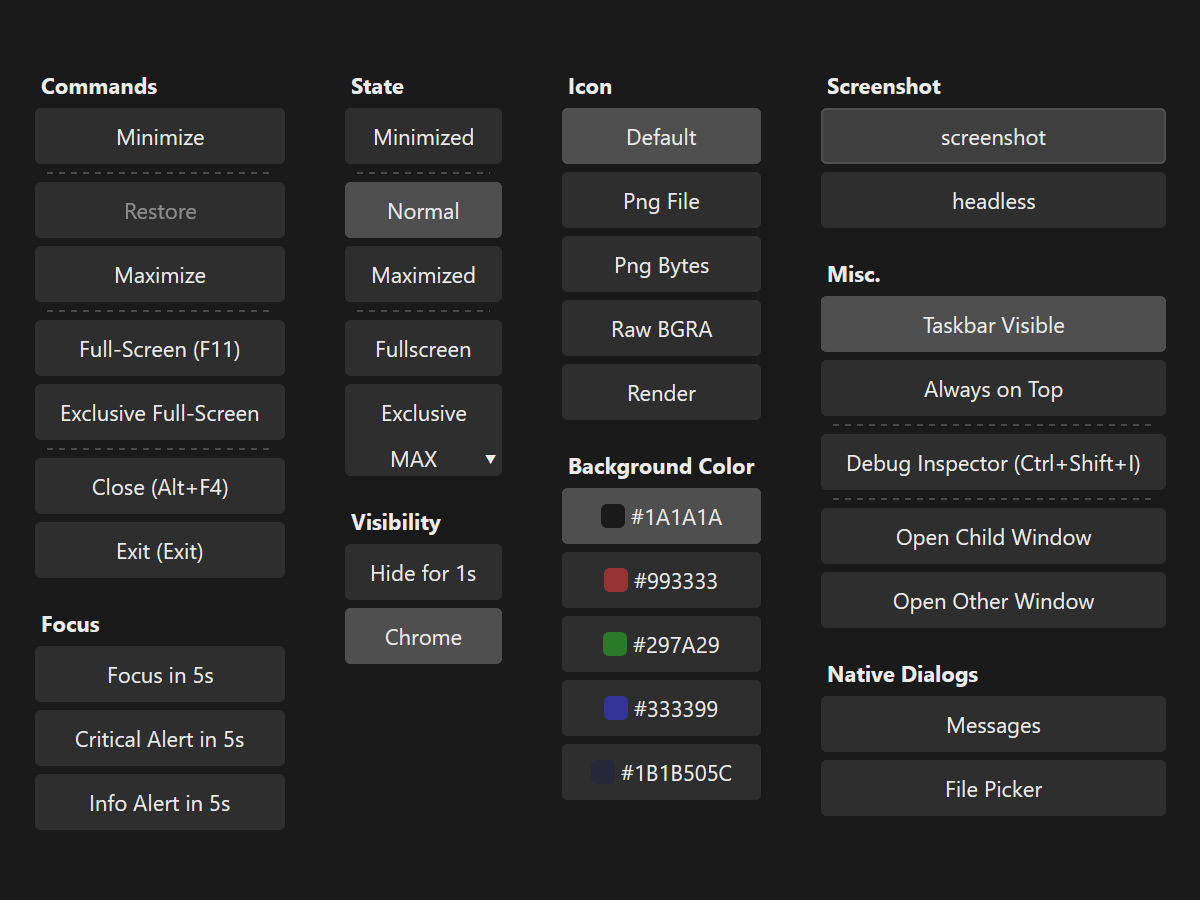
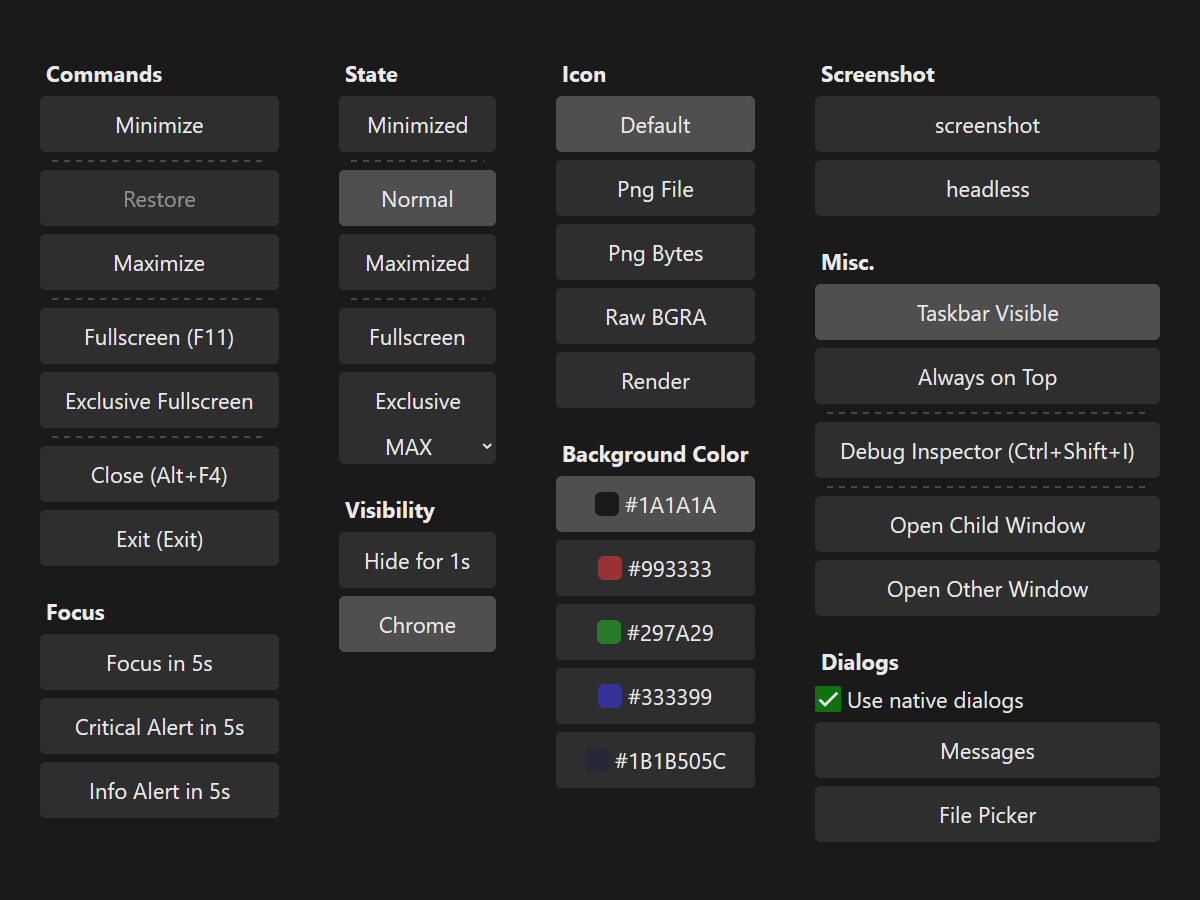
Fix `DIALOG` with `Response::ok` button not resulting in an ok signal (#695)

diff --git a/examples/window/src/main.rs b/examples/window/src/main.rs
@@ -562,13 +562,19 @@ fn misc() -> impl UiNode {
 }
 
 fn native() -> impl UiNode {
+    let use_native = var(true);
     section(
-        "Native Dialogs",
+        "Dialogs",
         ui_vec![
+            Toggle! {
+                child = Text!("Use native dialogs");
+                style_fn = toggle::CheckStyle!();
+                checked = use_native.clone();
+            },
             Button! {
                 child = Text!("Messages");
                 tooltip = Tip!(Text!(r#"Shows a "Yes/No" message, then an "Ok" message dialogs."#));
-                dialog::native_dialogs = true;
+                dialog::native_dialogs = use_native.map_into();
                 on_click = async_hn!(|_| {
                     let rsp = DIALOG
                         .ask("Question?", "Example message. Yes -> Warn, No -> Error.")
@@ -586,7 +592,7 @@ fn native() -> impl UiNode {
                 tooltip = Tip!(Text!(
                     r#"Shows a "Directory Picker", then an "Open Many Files", then a "Save File" dialogs."#
                 ));
-                dialog::native_dialogs = true;
+                dialog::native_dialogs = use_native.map_into();
                 on_click = async_hn!(|_| {
                     let res = DIALOG.select_folder("Select Dir", "", "").wait_rsp().await;
                     let dir = match res {

diff --git a/crates/zng-wgt-dialog/src/lib.rs b/crates/zng-wgt-dialog/src/lib.rs
@@ -482,7 +482,7 @@ impl Response {
 
     /// "ok"
     pub fn ok() -> Self {
-        Self::new("Ok", l10n!("response-ok", "Ok"))
+        Self::new("ok", l10n!("response-ok", "Ok"))
     }
 
     /// "cancel"

diff --git a/CHANGELOG.md b/CHANGELOG.md
@@ -1,5 +1,6 @@
 # Unreleased
 
+* Fix `DIALOG` with `Response::ok` button not resulting in an ok signal.
 * Fix auto scroll on text caret move, only apply if the `Text!` or rich text context has focus.
 * Fix auto scroll on focus change, ignore focus change due to entire `Scroll!` disabling.
 * Fix `Button!` inside `SubMenu!` not filling horizontal space when the sub-menu header is wider them the button.
